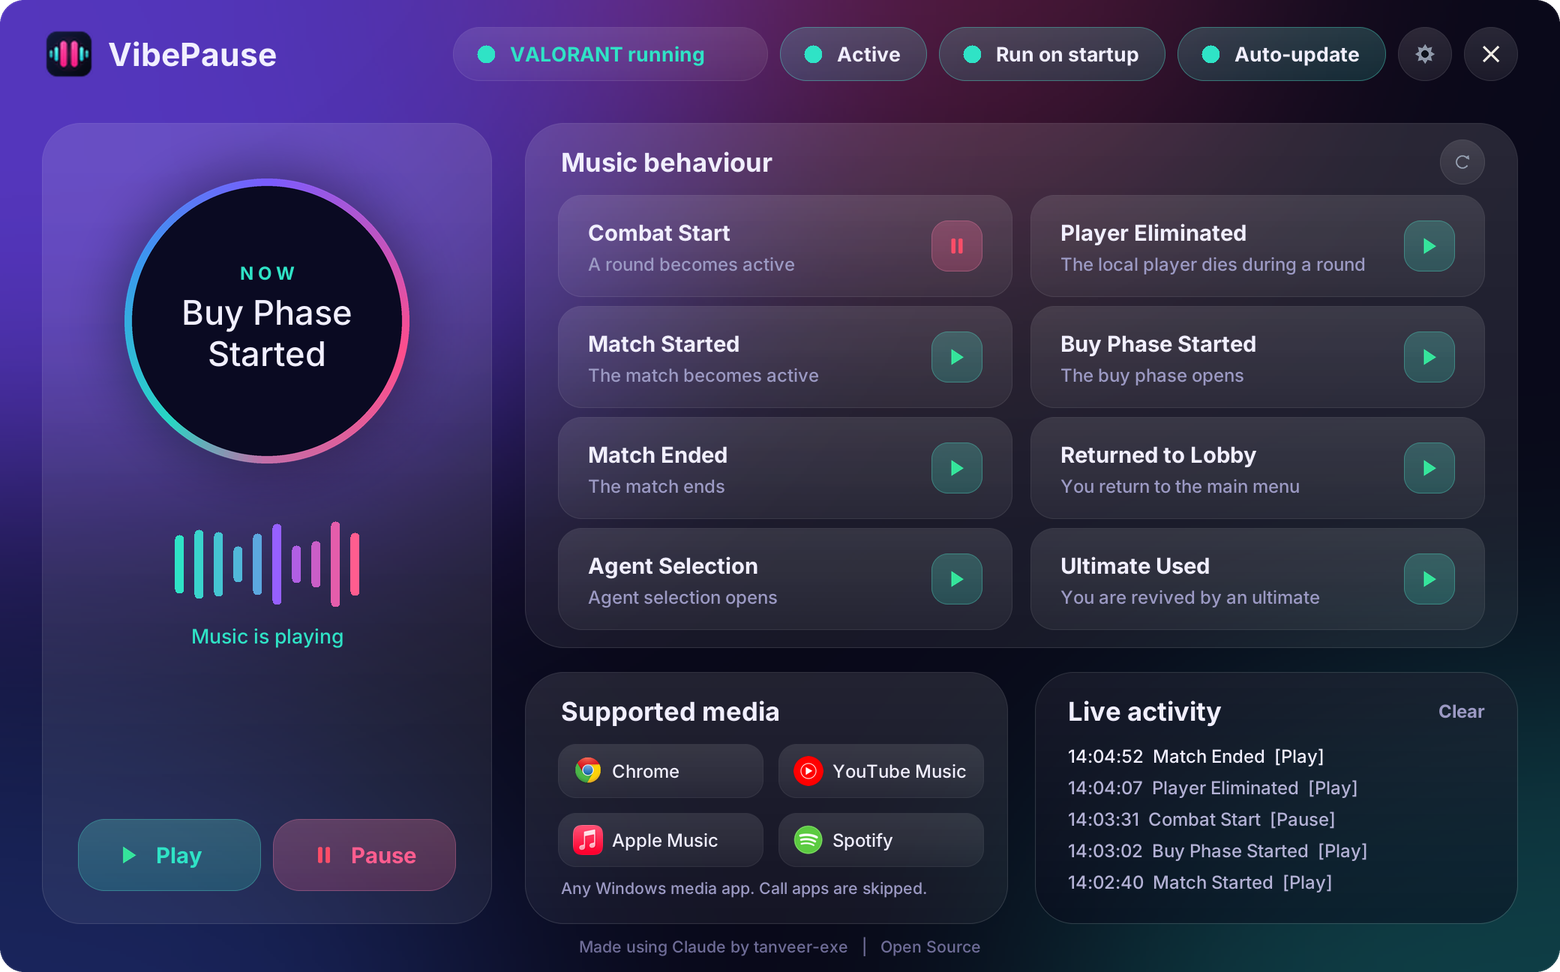
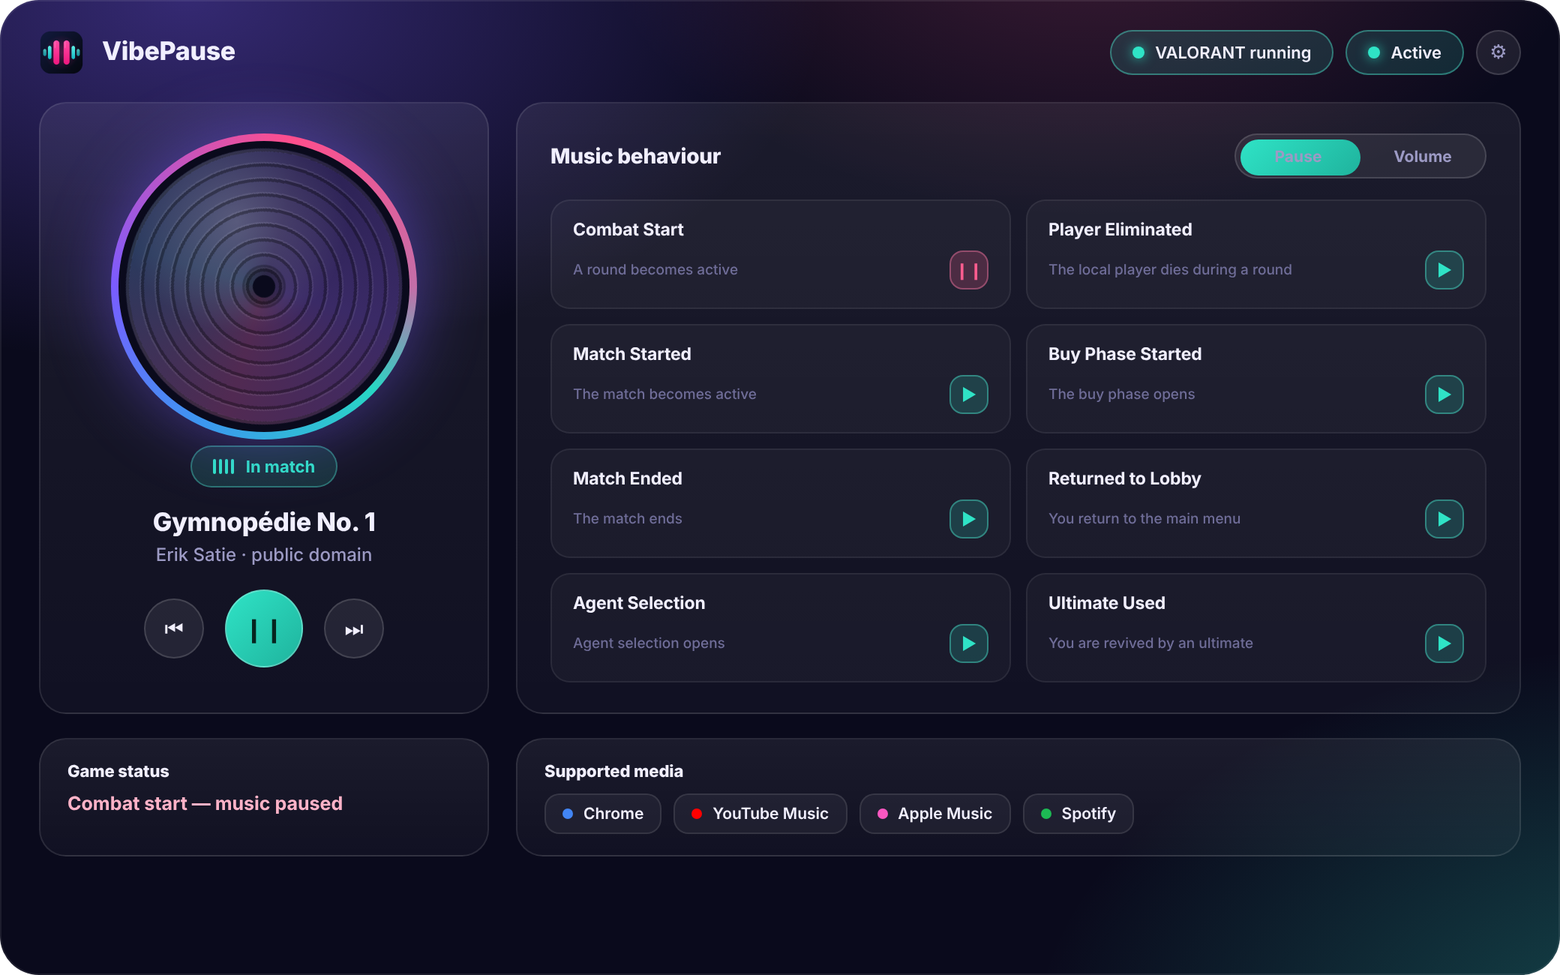
Update README and website to show the now-playing media controller
- README: new screenshot and banner reflecting the 1.0.2 now-playing
  card, and a feature section describing the media controls
- Website: the static hero screenshot is replaced with a live,
  interactive preview (spinning disc, working Pause/Volume switch)
  built as a small self-contained page embedded via iframe, so the
  site itself demonstrates both modes instead of only describing them
- Example track used for the now-playing preview is public domain
  (Gymnopédie No. 1, Erik Satie), labelled as such

Claude-Session: https://claude.ai/code/session_01TbePDEcX1kX8fbR9ont7nm

diff --git a/docs/app-preview.html b/docs/app-preview.html
@@ -1,0 +1,273 @@
+<!doctype html>
+<html lang="en">
+<head>
+<meta charset="utf-8">
+<meta name="viewport" content="width=device-width, initial-scale=1">
+<link rel="preconnect" href="https://fonts.googleapis.com">
+<link rel="preconnect" href="https://fonts.gstatic.com" crossorigin>
+<link href="https://fonts.googleapis.com/css2?family=Bricolage+Grotesque:opsz,wght@12..96,500;12..96,700;12..96,800&family=Figtree:wght@400;500;600;700&display=swap" rel="stylesheet">
+<style>
+:root{
+  --bg:#0a0a1c; --panel:#14142b; --panel2:#1e1e3d; --panel3:#2a2a52;
+  --text:#f1efff; --muted:#9c9ac4; --faint:#6f6d98;
+  --red:#ff5d8f; --dred:#c23d68; --green:#2fe3c6; --blue:#7aa8ff;
+  --display:"Bricolage Grotesque","Segoe UI Variable Display","Segoe UI",system-ui,sans-serif;
+  --body:"Figtree","Segoe UI",system-ui,sans-serif;
+}
+*{box-sizing:border-box}
+html,body{margin:0;padding:0;background:transparent}
+body{font-family:var(--body)}
+
+.appwin{
+  width:1040px;height:650px;border-radius:26px;overflow:hidden;position:relative;
+  background:
+    radial-gradient(60% 55% at 12% 0%, rgba(122,92,255,.38), transparent 68%),
+    radial-gradient(46% 46% at 70% -10%, rgba(255,93,143,.22), transparent 70%),
+    radial-gradient(60% 60% at 108% 108%, rgba(47,227,198,.30), transparent 70%),
+    var(--bg);
+  color:var(--text);
+  box-shadow:0 0 0 1px rgba(255,255,255,.08) inset;
+}
+.glass{
+  background:linear-gradient(180deg,rgba(255,255,255,.07),rgba(255,255,255,.03));
+  border:1px solid rgba(255,255,255,.1);
+  border-radius:18px;
+}
+
+.awin-head{display:flex;align-items:center;justify-content:space-between;padding:20px 26px 0}
+.awin-brand{display:flex;align-items:center;gap:12px;font:800 17px var(--display);letter-spacing:-.01em}
+.awin-brand img{width:30px;height:30px;border-radius:8px}
+.pills{display:flex;align-items:center;gap:8px}
+.pill{display:inline-flex;align-items:center;gap:7px;padding:7px 14px;border-radius:999px;font:600 11px var(--body);
+  background:rgba(255,255,255,.07);border:1px solid rgba(255,255,255,.14);color:var(--muted)}
+.pill.on{background:rgba(47,227,198,.14);border-color:rgba(80,240,215,.4);color:var(--text)}
+.pill .dot{width:8px;height:8px;border-radius:50%;background:var(--muted);display:inline-block}
+.pill .dot.teal{background:var(--green);box-shadow:0 0 8px rgba(47,227,198,.8)}
+.round-btn{width:30px;height:30px;border-radius:50%;background:rgba(255,255,255,.08);border:1px solid rgba(255,255,255,.14);
+  display:inline-flex;align-items:center;justify-content:center;color:var(--muted);font-size:13px}
+
+.awin-body{display:grid;grid-template-columns:300px 1fr;gap:18px;padding:18px 26px 0}
+
+.np-card{padding:26px 22px 24px;display:flex;flex-direction:column;align-items:center;gap:14px}
+.disc-wrap{position:relative;width:184px;height:184px;margin-top:4px}
+.disc-ring{
+  position:absolute;inset:-10px;border-radius:50%;padding:5px;
+  background:conic-gradient(from -90deg,#7a5cff 0%,#ff4e8c 28%,#c46ea8 50%,#28d6c4 62%,#3c96f0 82%,#7a5cff 100%);
+  filter:drop-shadow(0 0 22px rgba(122,92,255,.45));
+}
+.disc-ring::before{content:"";position:absolute;inset:5px;border-radius:50%;background:var(--bg)}
+.disc{
+  position:absolute;inset:0;border-radius:50%;overflow:hidden;
+  background:
+    radial-gradient(circle at 34% 30%, rgba(255,255,255,.22), transparent 42%),
+    conic-gradient(from 0deg,#2a2152,#3a2a66,#512a52,#2a3a5e,#2a2152);
+  box-shadow:inset 0 0 0 2px rgba(255,255,255,.08);
+  animation:spin 9s linear infinite;
+}
+.disc .grooves{position:absolute;inset:0;border-radius:50%;
+  background:repeating-radial-gradient(circle at 50% 50%,
+    rgba(0,0,0,.32) 0 2px, rgba(255,255,255,.08) 2px 3px, transparent 3px 10px);
+}
+.disc .hole{position:absolute;left:50%;top:50%;width:15px;height:15px;transform:translate(-50%,-50%);
+  border-radius:50%;background:var(--bg);box-shadow:0 0 0 7px rgba(0,0,0,.28)}
+@keyframes spin{to{transform:rotate(360deg)}}
+.appwin.paused .disc{animation-play-state:paused}
+
+.state-pill{display:inline-flex;align-items:center;gap:8px;padding:6px 14px;border-radius:999px;font:700 11px var(--body);
+  background:rgba(47,227,198,.14);border:1px solid rgba(80,240,215,.35);color:var(--green)}
+.appwin.paused .state-pill{background:rgba(255,93,143,.16);border-color:rgba(255,125,170,.4);color:#ffb3c8}
+.state-pill .mini-bars{display:flex;align-items:center;gap:2px;height:11px}
+.state-pill .mini-bars i{width:2px;height:5px;border-radius:2px;background:currentColor;animation:beat .9s ease-in-out infinite}
+.state-pill .mini-bars i:nth-child(2){animation-duration:.7s}
+.state-pill .mini-bars i:nth-child(3){animation-duration:1.1s}
+.state-pill .mini-bars i:nth-child(4){animation-duration:.8s}
+.appwin.paused .mini-bars i{animation:none;height:3px}
+@keyframes beat{0%,100%{height:3px}50%{height:11px}}
+
+.np-text{display:flex;flex-direction:column;align-items:center;gap:3px}
+.np-title{font:800 17px var(--display);letter-spacing:-.01em;text-align:center}
+.np-artist{font:500 12px var(--body);color:var(--muted)}
+.np-controls{display:flex;align-items:center;gap:14px;margin-top:2px}
+.ctrl{width:40px;height:40px;border-radius:50%;background:rgba(255,255,255,.08);border:1px solid rgba(255,255,255,.14);
+  color:var(--text);display:inline-flex;align-items:center;justify-content:center;font-size:14px}
+.ctrl.toggle{width:52px;height:52px;background:linear-gradient(135deg,var(--green),#1fb39d);border-color:rgba(255,255,255,.25);
+  font-size:16px;color:#06251f}
+.appwin.paused .ctrl.toggle{background:linear-gradient(135deg,var(--red),var(--dred));color:#fff}
+
+.mb-card{padding:20px 22px}
+.mb-head{display:flex;align-items:center;justify-content:space-between;margin-bottom:14px}
+.mb-head h3{margin:0;font:800 14px var(--display);letter-spacing:-.01em}
+.mode-switch{position:relative;display:flex;width:168px;height:30px;border-radius:999px;
+  background:rgba(255,255,255,.07);border:1px solid rgba(255,255,255,.14);cursor:pointer;user-select:none}
+.mode-switch .knob{position:absolute;top:3px;left:3px;width:80px;height:24px;border-radius:999px;
+  background:linear-gradient(135deg,var(--green),#1fb39d);transition:transform .32s cubic-bezier(.4,0,.2,1)}
+.appwin.volmode .mode-switch .knob{transform:translateX(80px);background:linear-gradient(135deg,var(--blue),#5a82e0)}
+.mode-switch span{flex:1;display:flex;align-items:center;justify-content:center;font:700 10.5px var(--body);
+  color:var(--muted);position:relative;z-index:1;transition:color .2s}
+.appwin:not(.volmode) .mode-switch span:first-child{color:var(--bg)}
+.appwin.volmode .mode-switch span:last-child{color:var(--bg)}
+
+.tiles{display:grid;grid-template-columns:1fr 1fr;gap:10px}
+.tile{background:rgba(255,255,255,.035);border:1px solid rgba(255,255,255,.07);border-radius:13px;
+  padding:12px 14px;display:flex;flex-direction:column;gap:7px;min-height:58px;justify-content:center}
+.tile .tname{font:700 11.5px var(--body);letter-spacing:-.005em}
+.pm-view,.vm-view{display:flex;align-items:center;justify-content:space-between;gap:10px}
+.appwin.volmode .pm-view{display:none}
+.appwin:not(.volmode) .vm-view{display:none}
+.tdesc{font:500 9.5px var(--body);color:var(--faint);overflow:hidden;text-overflow:ellipsis;white-space:nowrap}
+.chip{flex:none;display:inline-flex;align-items:center;justify-content:center;width:26px;height:26px;border-radius:9px;font-size:11px}
+.chip.Play{background:rgba(47,227,198,.18);color:var(--green);border:1px solid rgba(80,240,215,.4)}
+.chip.Pause{background:rgba(255,93,143,.2);color:var(--red);border:1px solid rgba(255,125,170,.4)}
+.chip.None{background:rgba(255,255,255,.08);color:var(--faint);border:1px solid rgba(255,255,255,.14)}
+.vbar{flex:1;height:5px;border-radius:99px;background:var(--panel3);position:relative}
+.vbar i{position:absolute;left:0;top:0;height:100%;border-radius:99px;background:var(--green);display:block}
+.vpct{font:700 10px var(--body);color:var(--muted);width:30px;text-align:right}
+
+.awin-foot{display:grid;grid-template-columns:300px 1fr;gap:18px;padding:16px 26px 20px}
+.mini-card{padding:14px 18px}
+.mini-card h4{margin:0 0 8px;font:800 11px var(--display);letter-spacing:-.005em}
+.gstate{font:700 12.5px var(--body)}
+.gstate.pause{color:#ffb3c8}
+.apps-row{display:flex;gap:8px;flex-wrap:wrap}
+.app-chip{display:flex;align-items:center;gap:7px;padding:6px 11px;border-radius:10px;background:rgba(255,255,255,.05);
+  border:1px solid rgba(255,255,255,.1);font:600 10.5px var(--body);color:var(--text)}
+.app-chip i{width:7px;height:7px;border-radius:50%}
+
+.mode-hint{position:absolute;top:-22px;right:0;font:600 10px var(--body);color:var(--muted);
+  opacity:0;transition:opacity .25s}
+.mb-head{position:relative}
+.mb-head:hover .mode-hint{opacity:1}
+
+@media (prefers-reduced-motion:reduce){
+  .disc{animation:none}
+  .state-pill .mini-bars i{animation:none;height:7px}
+  .mode-switch .knob{transition:none}
+}
+</style>
+</head>
+<body>
+
+<div class="appwin" id="appwin">
+  <div class="awin-head">
+    <div class="awin-brand"><img src="logo.png" alt=""><span>VibePause</span></div>
+    <div class="pills">
+      <span class="pill on"><i class="dot teal"></i>VALORANT running</span>
+      <span class="pill on"><i class="dot teal"></i>Active</span>
+      <span class="round-btn">&#9881;</span>
+    </div>
+  </div>
+
+  <div class="awin-body">
+    <div class="np-card glass">
+      <div class="disc-wrap">
+        <div class="disc-ring"></div>
+        <div class="disc"><div class="grooves"></div><div class="hole"></div></div>
+      </div>
+      <div class="state-pill" id="statePill">
+        <span class="mini-bars"><i></i><i></i><i></i><i></i></span>
+        <span id="stateText">In match</span>
+      </div>
+      <div class="np-text">
+        <div class="np-title">Gymnop&eacute;die No. 1</div>
+        <div class="np-artist">Erik Satie &middot; public domain</div>
+      </div>
+      <div class="np-controls">
+        <span class="ctrl">&#9198;</span>
+        <span class="ctrl toggle" id="toggleBtn">&#10073;&#10073;</span>
+        <span class="ctrl">&#9197;</span>
+      </div>
+    </div>
+
+    <div class="mb-card glass">
+      <div class="mb-head">
+        <h3>Music behaviour</h3>
+        <div>
+          <div class="mode-hint">Click to switch modes</div>
+          <div class="mode-switch" id="modeSwitch" role="button" tabindex="0" aria-label="Switch between Pause mode and Volume mode">
+            <div class="knob"></div>
+            <span>Pause</span><span>Volume</span>
+          </div>
+        </div>
+      </div>
+      <div class="tiles" id="tiles"></div>
+    </div>
+  </div>
+
+  <div class="awin-foot">
+    <div class="mini-card glass">
+      <h4>Game status</h4>
+      <div class="gstate pause" id="gstate">Combat start &mdash; music paused</div>
+    </div>
+    <div class="mini-card glass">
+      <h4>Supported media</h4>
+      <div class="apps-row">
+        <span class="app-chip"><i style="background:#4285f4"></i>Chrome</span>
+        <span class="app-chip"><i style="background:#ff0000"></i>YouTube Music</span>
+        <span class="app-chip"><i style="background:#fa57c1"></i>Apple Music</span>
+        <span class="app-chip"><i style="background:#1db954"></i>Spotify</span>
+      </div>
+    </div>
+  </div>
+</div>
+
+<script>
+const EVENTS=[
+  ["Combat Start","A round becomes active","Pause",20],
+  ["Player Eliminated","The local player dies during a round","Play",100],
+  ["Match Started","The match becomes active","Play",100],
+  ["Buy Phase Started","The buy phase opens","Play",100],
+  ["Match Ended","The match ends","Play",100],
+  ["Returned to Lobby","You return to the main menu","Play",100],
+  ["Agent Selection","Agent selection opens","Play",100],
+  ["Ultimate Used","You are revived by an ultimate","Play",100],
+];
+const tiles=document.getElementById("tiles");
+EVENTS.forEach(([name,desc,action,vol])=>{
+  const t=document.createElement("div");
+  t.className="tile";
+  t.innerHTML=
+    '<div class="tname">'+name+'</div>'+
+    '<div class="pm-view"><div class="tdesc">'+desc+'</div><span class="chip '+action+'">'+
+      (action==="Play"?"&#9654;":action==="Pause"?"&#10073;&#10073;":"")+'</span></div>'+
+    '<div class="vm-view"><div class="vbar"><i style="width:'+vol+'%"></i></div><span class="vpct">'+vol+'%</span></div>';
+  tiles.appendChild(t);
+});
+
+const appwin=document.getElementById("appwin");
+const modeSwitch=document.getElementById("modeSwitch");
+const flipMode=()=>{
+  const vol=appwin.classList.toggle("volmode");
+  modeSwitch.setAttribute("aria-pressed",vol);
+};
+modeSwitch.addEventListener("click",flipMode);
+modeSwitch.addEventListener("keydown",e=>{
+  if(e.key==="Enter"||e.key===" "){e.preventDefault();flipMode();}
+});
+const toggleBtn=document.getElementById("toggleBtn");
+toggleBtn.addEventListener("click",()=>{
+  const paused=appwin.classList.toggle("paused");
+  document.getElementById("stateText").textContent = paused ? "Paused for your match" : "In match";
+  toggleBtn.innerHTML = paused ? "&#9654;" : "&#10073;&#10073;";
+});
+
+// Cycle through a couple of game states on its own, slowly, so the preview feels alive
+// without needing a click. Respects reduced-motion by just not animating further.
+if (!window.matchMedia("(prefers-reduced-motion: reduce)").matches) {
+  let i = 0;
+  const cycle = [
+    ["In match", false],
+    ["Paused for your match", true],
+    ["In match", false],
+    ["In the menu", false],
+  ];
+  setInterval(() => {
+    i = (i + 1) % cycle.length;
+    const [text, paused] = cycle[i];
+    appwin.classList.toggle("paused", paused);
+    document.getElementById("stateText").textContent = text;
+    toggleBtn.innerHTML = paused ? "&#9654;" : "&#10073;&#10073;";
+  }, 4200);
+}
+</script>
+</body>
+</html>

diff --git a/docs/index.html b/docs/index.html
@@ -84,6 +84,9 @@ nav{display:flex;align-items:center;justify-content:space-between;padding:22px 0
 .fine{margin-top:18px;font-size:.92rem;color:var(--muted);max-width:30rem}
 .shot{padding:10px;border-radius:30px;box-shadow:0 40px 90px -30px rgba(0,0,0,.8),0 0 120px -20px rgba(104,66,232,.5)}
 .shot img{display:block;width:100%;height:auto;border-radius:22px}
+.shot-frame{position:relative;width:100%;aspect-ratio:1040/650;border-radius:22px;overflow:hidden;background:#0a0a1c}
+.shot-frame iframe{position:absolute;top:0;left:0;width:1040px;height:650px;border:0;transform-origin:top left}
+.shot-caption{margin-top:12px;font-size:.86rem;color:var(--muted);text-align:center}
 
 section{padding:70px 0}
 .head{max-width:40rem;margin-bottom:40px}
@@ -180,7 +183,14 @@ footer a{text-underline-offset:3px}
       </div>
       <p class="fine">Free, no account, no admin rights. Available in 15 languages. The installer is not code-signed yet, so Windows may show a SmartScreen warning. Choose More info, then Run anyway.</p>
     </div>
-    <div class="shot glass"><img src="screenshot.png" width="1040" height="648" alt="The VibePause window showing the current game state, eight music actions and live activity"></div>
+    <div>
+      <div class="shot glass">
+        <div class="shot-frame">
+          <iframe src="app-preview.html" title="A live preview of the VibePause window: now playing card with a spinning disc, the Music behaviour grid, and the Pause/Volume switch" loading="lazy"></iframe>
+        </div>
+      </div>
+      <p class="shot-caption">Live preview &mdash; click the Pause/Volume switch to see both modes.</p>
+    </div>
   </header>
 
   <section id="try">
@@ -267,6 +277,16 @@ footer a{text-underline-offset:3px}
 </div>
 
 <script>
+function fitShotFrame(){
+  document.querySelectorAll(".shot-frame").forEach(wrap=>{
+    const ifr=wrap.querySelector("iframe");
+    if(!ifr)return;
+    ifr.style.transform="scale("+(wrap.clientWidth/1040)+")";
+  });
+}
+window.addEventListener("resize",fitShotFrame);
+fitShotFrame();
+
 const EVENTS=[
   ["Combat Start","Pause","The round goes live. Music pauses so you can hear footsteps and callouts."],
   ["Player Eliminated","Play","You died. Music comes back while you wait for the round to end."],

diff --git a/README.md b/README.md
@@ -81,6 +81,10 @@ Each event can be configured independently as:
 
 You can also reset all events to their default settings.
 
+### Now playing, with media controls
+
+The main window shows what's currently playing, with its artwork, title and artist, plus **Previous**, **Play/Pause** and **Next** buttons so you can control your music without leaving VibePause. A small status pill next to it shows what VibePause is doing (waiting for VALORANT, in a match, paused for your match, and so on), so you always know why your music just changed.
+
 ### Pause mode and Volume mode
 
 A switch at the top of the **Music behaviour** card changes how events control your music:
